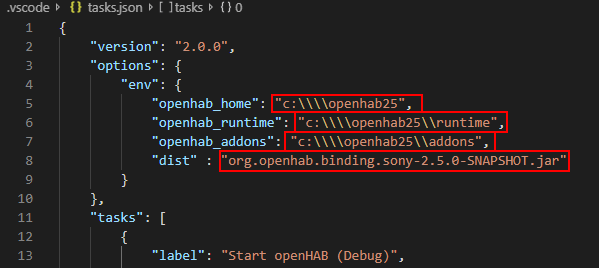
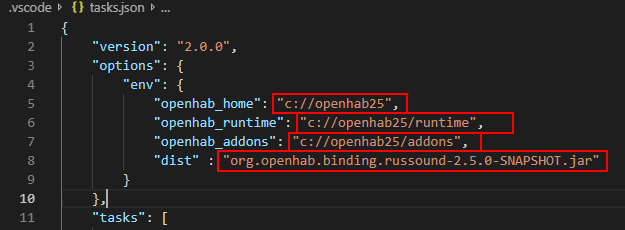
Updated tasks/images/doc from review

diff --git a/developers/ide/vscode.md b/developers/ide/vscode.md
@@ -5,87 +5,88 @@ title: Visual Studio Code
 
 # VSCode
 
-The following shows the steps for a Win10 system but should be similar for OSX/Linux.  Please note that you must double up on backward slashes on a windows system (`c:\\something`).  On linux/osx, simply use a forward slash (`\etc\something`) .
+The following shows the steps for building a bundle using Visual Studio Code (VSCode).  Please note that the instructions show a Win10 system but should be similar for OSX/Linux.  This guide assumes you have a base development directory already defined (example: `c:/users/me/development`) and will reference that director as `%BASE%`.
 
-## Pre-requesites
+## One time setup
 
-1. Must have Visual Studio Code (VSCode) installed
-2. Java 8+ SDK (not the JRE) installed and either JAVA_HOME or JDK_HOME pointing to it
-3. Base development directory (example: `c:\users\me\development`).  The `%BASE%` references below will be to this directory.
-4. Maven installed and the `mvn` command is in your path (open a console and type `mvn -version` to verify)
-5. openHAB 2.5+ is already installed
-
-## References
-
-1. [Addon development thread](https://community.openhab.org/t/addon-development/73935/19)
-2. [VSCode with Java](https://code.visualstudio.com/docs/languages/java)
-3. [VSCode with Java debugging](https://code.visualstudio.com/docs/java/java-debugging)
-4. [openHAB Migration to BND](https://github.com/maggu2810/openhab-dev-doc/blob/master/maven-bnd.md)
-
-## Steps
+The following steps will only need to be done once to setup both VSCode and your environment.
 
 1. Install Java Extension Pack for VSCode (https://marketplace.visualstudio.com/items?itemName=vscjava.vscode-java-pack)
    
-2. Clone the addons (https://github.com/openhab/openhab2-addons.git or your own fork) to %BASE%\openhab2-addons
+2. Clone the addons (https://github.com/openhab/openhab2-addons.git or preferably your own fork) to %BASE%\openhab2-addons
    
-3. Ensure the bundle builds correctly (natively with maven)
-   1. Open console to `%BASE%\openhab2-addons\bundles\org.openhab.binding.sony` (or pick any other bundle)
+
+## Steps for each Bundle
+
+The following steps will show you how to setup a specific bundle for development with VSCode.  These steps will show how to setup the Russound bundle but are generic to any bundle in the system.
+
+1. Ensure the bundle builds correctly (natively with maven)
+   1. Open console to the bundle location (example: `%BASE%\openhab2-addons\bundles\org.openhab.binding.russound`)
    2. `mvn clean install -DskipChecks` in the console to build the bundle
-   3. Should produce a jar file in the 'target' directory (example: `%BASE%\openhab2-addons\bundles\org.openhab.binding.sony\target\org.openhab.binding.sony-2.5.0-SNAPSHOT.jar`)
+   3. Should produce a jar file in the 'target' directory of the bundle(example: `%BASE%\openhab2-addons\bundles\org.openhab.binding.russound\target\org.openhab.binding.russound-2.5.0-SNAPSHOT.jar`)
    
-4. Open VSCode and then open the folder of the bundle (example: `%BASE%\openhab2-addons\bundles\org.openhab.binding.sony`)
+2. Open VSCode and then open the folder of the bundle.  From VSCode - use `File->Open Folder->choose bundle directory` (example: `%BASE%\openhab2-addons\bundles\org.openhab.binding.russound`)
    
-5. Create a ".vscode" directory under the bundle (example: `%BASE%\openhab2-addons\bundles\org.openhab.binding.sony\.vscode`)   
+3. Create a ".vscode" directory under the bundle (example: `%BASE%\openhab2-addons\bundles\org.openhab.binding.russound\.vscode`)   
     ![define .vscode](images/ide_setup_vscode_folder.png)
 
-6. Download [tasks.json](examples/vscode/tasks.json) to the .vscode directory (example: `%BASE%\openhab2-addons\bundles\org.openhab.binding.sony\.vscode\tasks.json`)
+4. Download [tasks.json](examples/vscode/tasks.json) to the .vscode directory (example: `%BASE%\openhab2-addons\bundles\org.openhab.binding.russound\.vscode\tasks.json`)
     ![define tasks.json](images/ide_setup_vscode_folder_tasks.png)
    
-7. Edit tasks.json and ...
+5. Edit tasks.json and ...
    
     ![tasks.json changes](images/ide_setup_vscode_tasks.png)
-   1. Set `openhab_*` to the directories for your openHAB installation (note you need to double up on forward slashes for windows)
+   1. Set `openhab_*` to the directories for your openHAB installation 
    2. Set `dist` to the name of the JAR file maven is producing in the target directory
    3. Save and close tasks.json
    
-8. Stop any openHAB instance (if it's running).
+6. Stop any openHAB instance (if it's running).
    
-9.  Start the openHAB instance with the debug option - `start.bat debug` from a console in the openHAB home directory.  You should see the following line printed somewhere in the karaf console:
+7.  Start the openHAB instance with the debug option - `start.bat debug` from a console in the openHAB home directory.  You should see the following line printed somewhere in the karaf console:
 	`Listening for transport dt_socket at address: xxxx` (where xxxx should be 5005)
 
-10. Download [launch.json](examples/vscode/launch.json) to the .vscode directory  (example: `%BASE%\openhab2-addons\bundles\org.openhab.binding.sony\.vscode\launch.json`)
+8.  Download [launch.json](examples/vscode/launch.json) to the .vscode directory  (example: `%BASE%\openhab2-addons\bundles\org.openhab.binding.russound\.vscode\launch.json`)
 
     ![define launch.json](images/ide_setup_vscode_folder_launch.png)
 
-11. Edit launch.json and ...
+9.  Edit launch.json and ...
     
     ![launch.json changes](images/ide_setup_vscode_launch.png)
-    1. Set the `port` to xxxx (from step 8).  This can be skipped if xxxx was 5005 from step 8.
+    1. Set the `port` to xxxx (from step 7).  This can be skipped if xxxx was 5005 from step 7.
     2. Set the `hostName` to the hostname running openHAB.  This can be skipped if running locally (localhost)
     3. Save and close launch.json
 
-12. Verify it's working - press F5 (or bring up debug in VSCode and choose the "Debug (Attach) - openHAB" configuration).  The VSCode terminal should show the following:
-    1. The maven compile occuring
-    2. Copying the resulting JAR to the openHAB addons directory
-    3. Connecting to the openHAB instance (the debug call stack should show a bunch of openHAB type threads running)
+10. Verify that VSCode can build the system and connect to a debug instance of openHAB:
+    
+    1. Shutdown any instances of openHAB
+    2. Press `CTRL-SHIFT-P -> Tasks: Run Task -> Start openHAB (Debug)` to start an openHAB instance in debug mode.  You should see openHAB startup in a new VSCode terminal.
+    3. Press F5 (or bring up debug in VSCode and choose the "Debug (Attach) - openHAB" configuration) and the following should occur in the VSCode terminal
+
+        1. The maven compile occuring (successfully)
+        2. The resulting JAR is copied to the openHAB addons directory (`openhab_addons`)
+        3. Connecting to the openHAB instance (the debug call stack should show a bunch of openHAB type threads running)
    
-You can now make changes, set breakpoints, etc.  Repeat 4-11 for each bundle you want to debug.
+You can now make changes, set breakpoints, etc.
 
 ## Notes
 
-1. May take openHAB a few seconds to realize there is a new addon and to reinitilize it after it's been copied.  Be a bit patient.
-2. You must run `mvn clean install -DskipChecks` ONCE on the bundle BEFORE using tasks.json
+1. May take openHAB a few seconds to realize there is a new bundle and to reinitilize it after it's been copied.  Be a little bit patient.
+2. You must run the `mvn Compile (Online)` task atleast once to allow the offline compile to occur.  You should use the `mvn Compile (Offline)` task for most of your development as it's quicker since it uses the cache files.  When you are ready to commit (or release a test bundle) - you should run the `mvn Compile (Release)` task to include code checks (and resolve them).
+3. Win10+ allows forward slashes as part of it's path.  If you use backward slashes instead - you will need to double up on them since tasks.json uses a backward slash as a delimiter.  Example: `c:\\\\openhab2`
    
 ## Tasks
 
 The [tasks.json](examples/vscode/tasks.json) defines the following tasks that you may use withing VSCode (`CTRL-SHIFT-P > Tasks: Run Task`):
 
-1. **Start openHAB (Debug)** - this task will start a new instance of openHAB in debug mode (allowing VSCode to connect to it).  Please shut down any other instances of openHAB prior to running this (see next task).  Formally, this will call `start.bat debug` (or `start.sh debug` on osx/linux) in the `openhab_home` directory.
-2. **Stop openHAB** - this task will stop any running instance.  Please note this will stop an instance started outside of VSCode as well on the same machine.  Formally, this will call `stop.bat` (or `stop.sh` on osx/linux) in the `openhab_runtime\\bin` directory.
-3. **mvn Compile (w/Checks)** - this task will run a maven compile with code checks.  Formally, will run `mvn -o clean install`
-4. **mvn Compile (No Checks)** - this task will run a maven compile skipping code checks.  Formally, will run `mvn -o clean install -DskipChecks`
-5. **Copy Distribution to Addons** - this task will run the 'mvn Compile (No Checks)' task and then copy the resulting target file (as defined by `dist`) to your openHAB addons directory (defined by `openhab_addons`)
-6. **Build** - this is an alias for `Copy Distribution to Addons` task.
-
-
+1. **Start openHAB (Debug)** - this task will start a new instance of openHAB in debug mode (allowing VSCode to connect to it).  Please shut down any other instances of openHAB prior to running this (see next task).  This will open a **new** terminal for openHAB to run in.  Formally, this will call `start.bat debug` (or `start.sh debug` on osx/linux) in the `openhab_home` directory.
+2. **Stop openHAB** - this task will stop any running instance.  Please note this will stop an instance started outside of VSCode as well on the same machine.  Formally, this will call `stop.bat` (or `stop.sh` on osx/linux) in the `openhab_runtime/bin` directory.
+3. **mvn Compile (Online)** - this task will run a online maven compile skipping code checks.  Formally, will run `mvn clean install -DskipChecks`
+4. **mvn Compile (Offline)** - this task will run a offline maven compile skipping code checks (assumes you have run a online compile atleast once).  Formally, will run `mvn -o clean install -DskipChecks`
+5. **mvn Compile (Release)** - this task will run a online maven compile with code checks.  Formally, will run `mvn clean install`
+6. **Copy Distribution to Addons** - this task will run the 'mvn Compile (Offline)' task and then copy the resulting target file (as defined by `dist`) to your openHAB addons directory (defined by `openhab_addons`)
+7. **Build** - this is an alias for `Copy Distribution to Addons` task.
 	
+## Additional References
+
+1. [VSCode with Java](https://code.visualstudio.com/docs/languages/java)
+2. [VSCode with Java debugging](https://code.visualstudio.com/docs/java/java-debugging)
